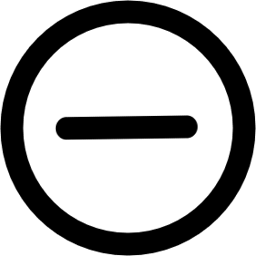
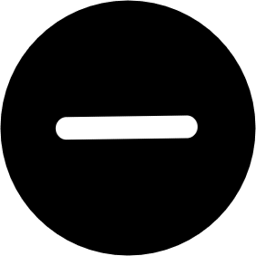
Changed names, likes work,TODO add on site load

diff --git a/js/main.js b/js/main.js
@@ -188,9 +188,26 @@ $(".buildCard").hover(function(){
   $(this).css("z-index","1");
 });
 
-$("#likeButton").on("click",function(){
+$("#plusIcon").on("click",function(){
   let buildID = $(this).attr('data');
   //console.log(userID);
-  $.post("fun/addLike.php", {buildID: buildID}, function(data) {
-  console.log(data);
-})})
+  $.post("fun/addLike.php", {buildID: buildID, minus: 0}, function(data) {
+    console.log(data);
+  if(data="success") {
+    $("s#plusIcon").attr("src","img/PlusMarked.png");
+    $("#minusIcon").attr("src","img/Minus.png");
+  }
+  })
+
+})
+$("#minusIcon").on("click",function(){
+  let buildID = $(this).attr('data');
+  //console.log(userID);
+  $.post("fun/addLike.php", {buildID: buildID, minus: 1}, function(data) {
+    console.log(data);
+    if(data="success") {
+      $("#minusIcon").attr("src","img/MinusMarked.png");
+      $("#plusIcon").attr("src","img/Plus.png");
+    }
+  })
+})

diff --git a/details.php b/details.php
@@ -187,16 +187,15 @@
         </div>
         <div>
           <div id="likes">
-          <img src="img/MinusMarked.png" class="likes">
           <?php
-          $sql = "SELECT COUNT(ID) FROM polubienia WHERE BuildID = $id";
+          echo "<img src='img/Minus.png' class='likes' id='minusIcon' data='$row[0]'>";
+          $sql = "SELECT COUNT(ID) FROM polubienia WHERE BuildID = $id AND Dislike = 0";
           $numLikes = $conn->query($sql)->fetch_row()[0];
           $sql = "SELECT COUNT(ID) FROM polubienia WHERE BuildID = $id AND Dislike = 1";
           $numLikes = $numLikes - ($conn->query($sql)->fetch_row()[0]);
 
-          echo $numLikes." ";
-          echo "<img src='img/PlusMarked.png' class='likes'></div>";
-          echo "<input type='button' value='Like' id='likeButton' data='$row[0]'>";
+          echo " ".$numLikes." ";
+          echo "<img src='img/Plus.png' class='likes' id='plusIcon' data='$row[0]'></div>";
             if($_SESSION['id']==$row[4] || $_SESSION['AdminStatus']==1){
               echo "<input type='button' value='Edytuj' id='editButton' data='$row[0]'>";
               echo "<input type='button' value='Usun' id='deleteButton' data='$row[0]' data-img='$row[3]'>";

diff --git a/fun/addLike.php b/fun/addLike.php
@@ -3,9 +3,24 @@
 <?php
   $user = $_SESSION["id"];
   $id = $_POST['buildID'];
+  $Status = $_POST['minus'];
+  if($Status) {
+    $rStatus = 0;
+  } else {
+    $rStatus = 1;
+  }
 
-  $sql = "INSERT INTO polubienia (UserID, BuildID) VALUES ($user, $id)"; 
-  $conn->query($sql);
+  $sqlT = "SELECT * FROM polubienia WHERE UserID = '$user' AND BuildID = '$id' AND Dislike = $Status";
+  $sqlrT = "SELECT * FROM polubienia WHERE UserID = '$user' AND BuildID = '$id' AND Dislike = $rStatus";
+  $sql = "INSERT INTO polubienia (UserID, BuildID, Dislike) VALUES ($user, $id, $Status)";
+
+  if(mysqli_num_rows($conn->query($sqlT))==0) {
+    $conn->query($sql);
+    if(mysqli_num_rows($conn->query($sqlrT))>0) {
+      $sql = "DELETE FROM polubienia WHERE UserID = $user AND BuildID = $id AND Dislike = $rStatus";
+      $conn->query($sql);
+    }
+  }
   //debug
   echo "success";
 ?>
